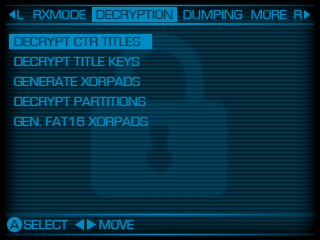
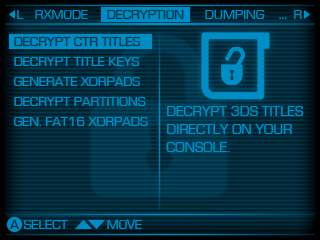
rxMode boot gui, credits gui, injection menu gui

Changed region(s): [[0.4688, 0.1167, 0.9688, 0.7], [0.0938, 0.0292, 0.9062, 0.1167], [0.2188, 0.9042, 0.4375, 0.9625]]

diff --git a/rxtools/source/features/cfw.c b/rxtools/source/features/cfw.c
@@ -96,26 +96,22 @@ int rxMode(int mode){	//0 : SysNand, 1 : EmuNand
 }
 
 void rxModeSys(){
-	sprintf(str, "/rxTools/Theme/%c/app.bin", Theme);
+	sprintf(str, "/rxTools/Theme/%c/boot.bin", Theme);
 	DrawBottomSplash(str);
-    ConsoleInit();
-    ConsoleSetTitle("RXMODE - BOOTING IN SYSNAND");
-    print("Loading...\n"); ConsoleShow();
 	rxMode(0);
-	print("Cannot boot in rxMode.\n\nPress A to exit\n"); ConsoleShow();
+	sprintf(str, "/rxTools/Theme/%c/bootE.bin", Theme);
+	DrawBottomSplash(str);
 	WaitForButton(BUTTON_A);
 }
 
 void rxModeEmu(){
-	sprintf(str, "/rxTools/Theme/%c/app.bin", Theme);
-	DrawBottomSplash(str);
-	if(!checkEmuNAND()) rxModeSys();
+	if (!checkEmuNAND()) rxModeSys();
 	else{
-		ConsoleInit();
-		ConsoleSetTitle("RXMODE - BOOTING IN EMUNAND");
-		print("Loading...\n"); ConsoleShow();
+		sprintf(str, "/rxTools/Theme/%c/boot.bin", Theme);
+		DrawBottomSplash(str);
 		rxMode(1);
-		print("Cannot boot in rxMode.\n\nPress A to exit\n"); ConsoleShow();
+		sprintf(str, "/rxTools/Theme/%c/bootE.bin", Theme);
+		DrawBottomSplash(str);
 		WaitForButton(BUTTON_A);
 	}
 }

diff --git a/rxtools/source/MainMenu.h b/rxtools/source/MainMenu.h
@@ -56,8 +56,8 @@ static Menu DumpMenu = {
 static Menu InjectMenu = {
 	"Injection Options",
 	.Option = (MenuEntry[2]){
-		{ " Inject EmuNAND partitions", &RebuildNand, "app.bin" },
-		{ " Inject NAND Files", &restoreCoolFiles, "app.bin" },
+		{ " Inject EmuNAND partitions", &RebuildNand, "inj0.bin" },
+		{ " Inject NAND Files", &restoreCoolFiles, "inj1.bin" },
 	},
 	2,
 	0,

diff --git a/rxtools/source/lib/menu.c b/rxtools/source/lib/menu.c
@@ -80,8 +80,6 @@ void MenuClose(){
 
 void MenuRefresh(){
 	ConsoleInit();
-	sprintf(str, "/rxTools/Theme/%c/%s", Theme, MyMenu->Option[MyMenu->Current].gfx_splash);
-	DrawBottomSplash(str);
 	MyMenu->Showed = 0;
 	ConsoleSetTitle(MyMenu->Name);
 	for (int i = 0; i < MyMenu->nEntryes; i++){
